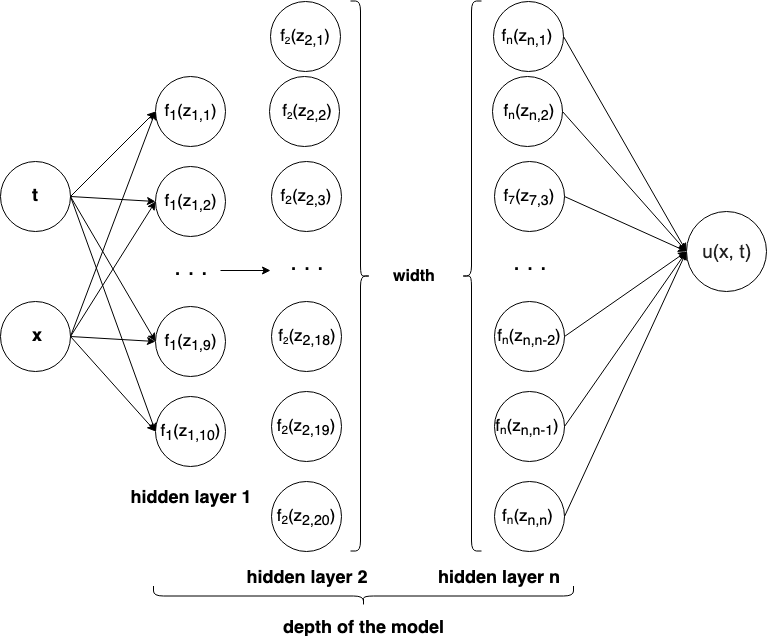
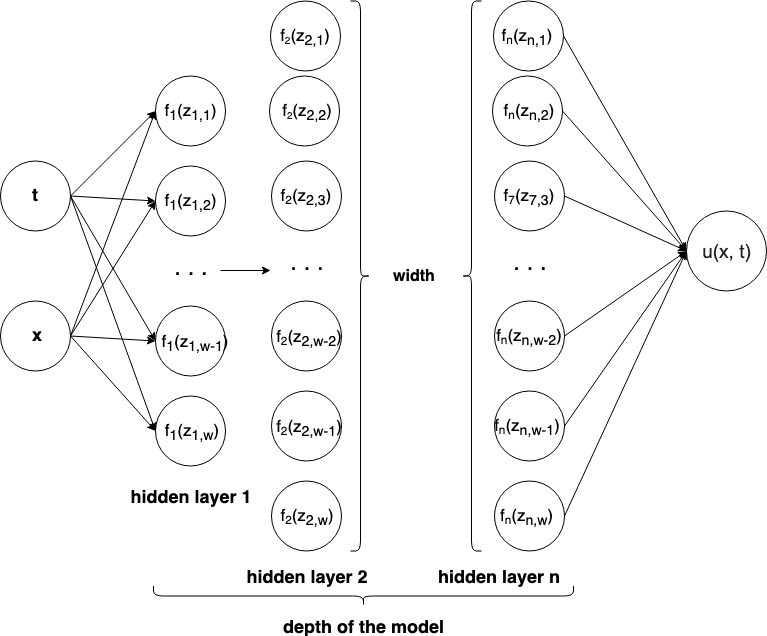
Updates from Overleaf

diff --git a/02-presentation-v1/presentation.tex b/02-presentation-v1/presentation.tex
@@ -145,7 +145,7 @@ Therefore, we relax the optimization problem introducing a NN
 where we plug the neural network $\UNN$ into Eq.~\eqref{eq:pde} and
 require that $\FNN \approx 0$.
 
-Then the minimization problem is solving:
+Then we solve the minimization problem:
 \begin{equation*}
     \argmin_{\VLambda, \VTheta}
     \sum_{i=1}^N \big[ u_i - \UNN(x_i, t_i; \VTheta)\big ]^2
@@ -153,7 +153,7 @@ Then the minimization problem is solving:
 \end{equation*}
 where $\gamma$ is an extra hyperparameter that controls the importance of the
 penalty term.
-This parameter $\gamma$ is chosen via cross-validation and bayesian regularization.
+This parameter $\gamma$ is chosen via cross-validation.
     
 \end{frame}
 
@@ -171,7 +171,7 @@ where
 Here 
 \begin{itemize}
     \item $L$  - is the number of layers in the network,
-    \item 0 layer and $L$ layer are input and output layers, respectively,
+    \item 0s layer and $L$-th layer are input and output layers, respectively,
     \item layers from 1 to $L-1$ - are hidden layers,
     \item $\sigma = \tanh (z) $ - is a nonlinear activation function applied componentwise.
 \end{itemize} 
@@ -199,13 +199,8 @@ Below, one can see the general scheme of the neural network:
 \begin{frame}
 
 As one can see on the Figure 1., we use the first layer as input data driven
-form the equation (1). As an activation function, we use $\sigma = tanh(z)$. We
-use $tahn(z)$ as its derivative has a good behavior in the region $[-1, 1]$
-\cite{nndesign}. In total, the neural network has 10 layers. 6 of them have a
-width of 20 "neurons". Below, we will show the dependence of the resulting value
-$\lambda$ on the neural network configuration. Especially, the affection of the
-number of hidden layers in the network. Below, for the Burgers' equation, the dependence of the result on the neural network configuration was considered.
-    
+form the equation (1). As an activation function, we use $tanh(z)$. The depth of the model and the width of everyy layer depends on the amount of data we have. Below, we have considere the affection of the neural network configuration on the resulting values, such as solution function u(x, t) and $\lambda$s.
+
 \end{frame}
 
 % Common part (end)
